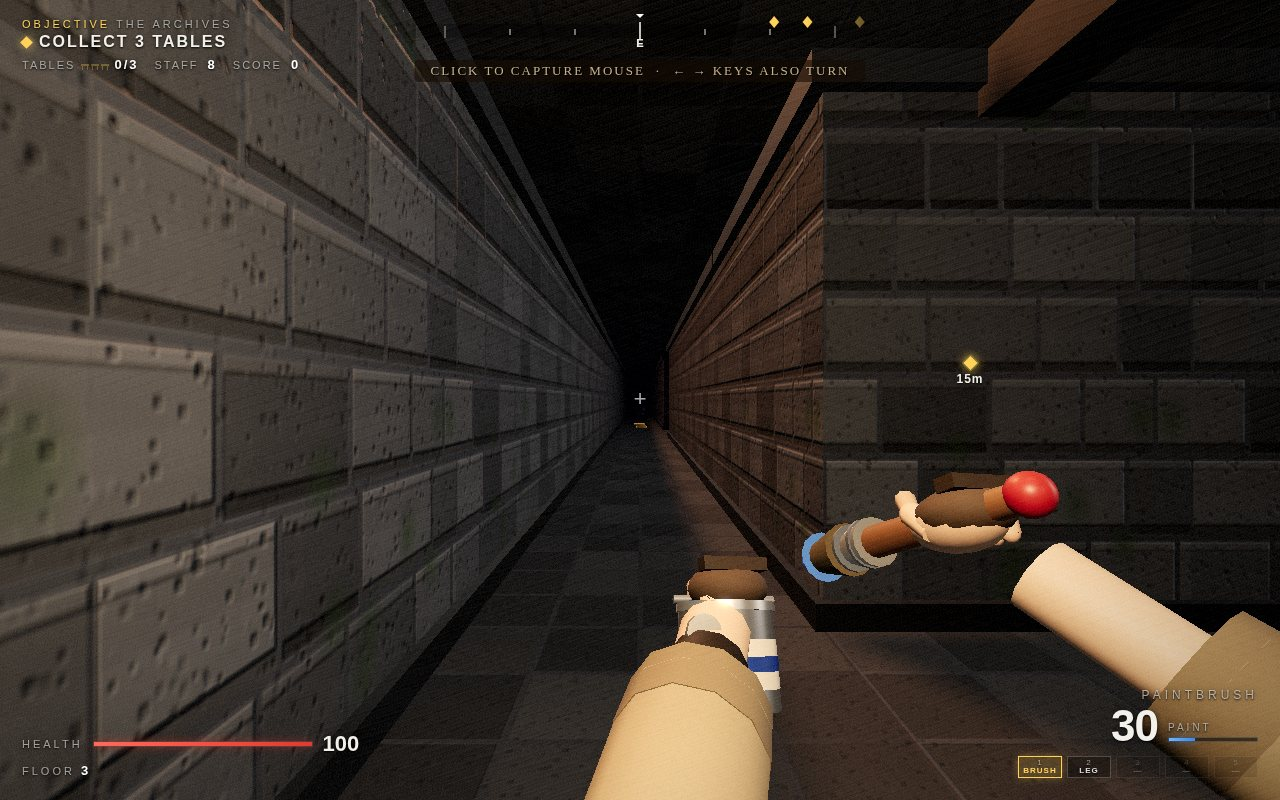
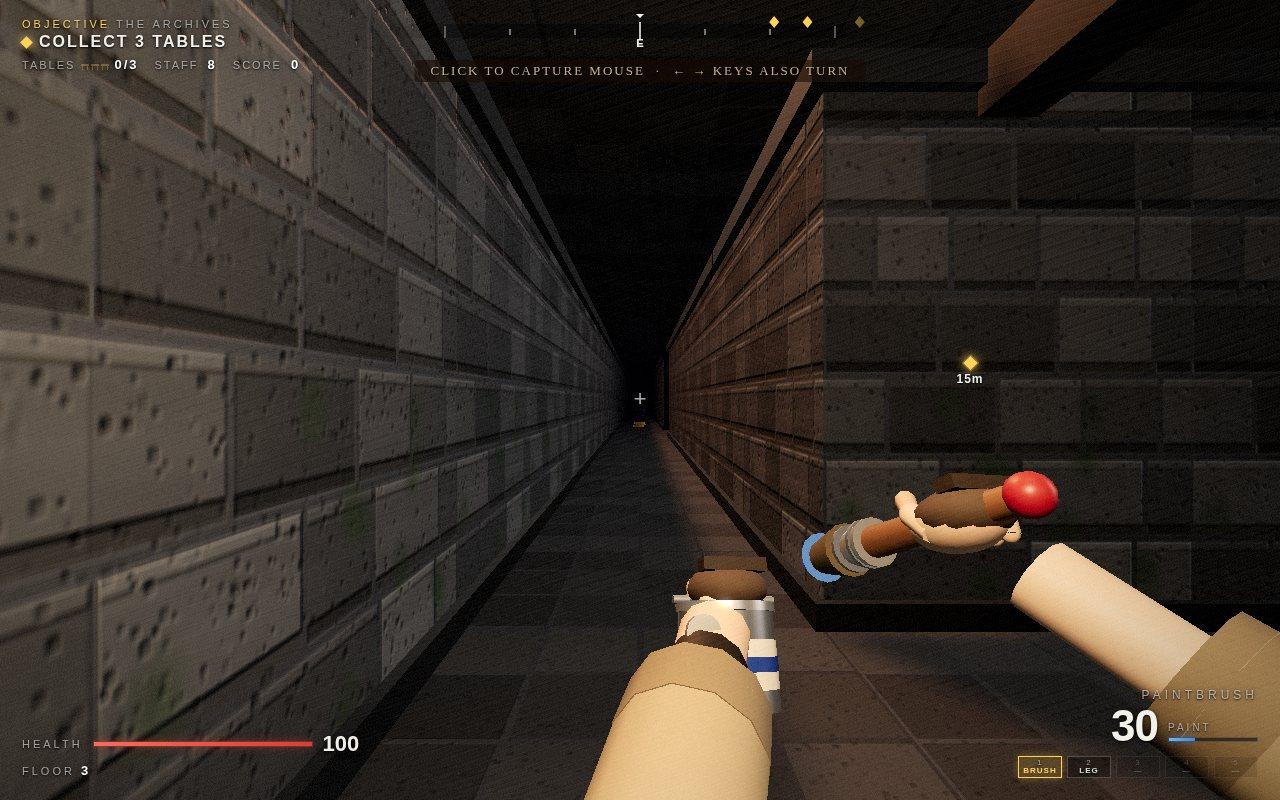
M3.2: full-screen blueprint tactical map on Tab; floor card alpha driven from update

diff --git a/modern/src/hud.js b/modern/src/hud.js
@@ -20,7 +20,8 @@ const $ = (id) => document.getElementById(id);
 
 let hitTimer = null;
 let dirTimer = null;
-let cardTimer = null;
+let cardShownAt = null;
+let cardPending = false;
 
 // dirty-check cache: only touch the DOM when a value actually changes
 const lastVals = {};
@@ -53,7 +54,8 @@ export const hud = {
         $('lock-hint').classList.add('hidden');
         $('damage-dir').classList.remove('on');
         $('obj-marker').classList.add('hidden');
-        $('floor-card').classList.remove('on');
+        $('floor-card').style.opacity = 0; cardShownAt = null; cardPending = false;
+        $('tacmap').classList.add('hidden');
     },
 
     /** four-tick marker; kill = red + pop, held a little longer */
@@ -91,17 +93,27 @@ export const hud = {
         $('lock-hint').classList.toggle('hidden', !show);
     },
 
-    /** floor intro card: FLOOR n / NAME / subtitle, 3.2 s */
+    /** floor intro card: FLOOR n / NAME / subtitle. Alpha is driven from update()
+     *  (fade in 0.3 s, hold, fade out 0.7 s) so it never depends on CSS transitions. */
     floorCard(num, name, subtitle) {
         $('fc-num').textContent = num;
         $('fc-name').textContent = name.toUpperCase();
         $('fc-sub').textContent = subtitle || '';
-        const el = $('floor-card');
-        el.classList.add('on');
-        if (cardTimer) clearTimeout(cardTimer);
-        cardTimer = setTimeout(() => el.classList.remove('on'), 3200);
+        cardShownAt = null; // armed: first update() stamps the game time
+        cardPending = true;
         setText('hud-floor-name', name.toUpperCase());
         poke();
+    },
+
+    updateFloorCard(time) {
+        const el = $('floor-card');
+        if (cardPending) { cardPending = false; cardShownAt = time; }
+        if (cardShownAt === null) return;
+        const t = time - cardShownAt;
+        const a = t < 0.3 ? t / 0.3 : t < 3.4 ? 1 : t < 4.1 ? 1 - (t - 3.4) / 0.7 : 0;
+        const v = a.toFixed(2);
+        if (lastVals._card !== v) { lastVals._card = v; el.style.opacity = v; }
+        if (a <= 0) cardShownAt = null;
     },
 
     update(player, game) {
@@ -186,7 +198,8 @@ export const hud = {
         const lowhp = !(player.health > 25 || player.health <= 0);
         if (lastVals._lowhp !== lowhp) { lastVals._lowhp = lowhp; $('lowhp-overlay').classList.toggle('hidden', !lowhp); }
 
-        // ---- compass + objective marker
+        // ---- floor card, compass, objective marker
+        this.updateFloorCard(time);
         this.drawCompass(player, game);
         this.updateMarker(player, game);
 
@@ -343,8 +356,11 @@ export const hud = {
     drawMinimap(game, player) {
         const c = $('minimap');
         if (c.classList.contains('hidden')) return;
-        const ctx = c.getContext('2d');
         const world = game.world;
+        this.sizeTacmap(world);
+        setText('tac-title', `TACTICAL MAP — FLOOR ${game.levelIndex + 1} · ${game.level.name.toUpperCase()}`);
+        setText('tac-sub', game.level.subtitle || '');
+        const ctx = c.getContext('2d');
         const sx = c.width / world.w, sy = c.height / world.h;
         const key = `${game.levelIndex}:${world.gatesUnlocked}:${c.width}:${world.propsVersion || 0}`;
         if (mmKey !== key) {
@@ -374,25 +390,45 @@ export const hud = {
         }
         ctx.clearRect(0, 0, c.width, c.height);
         ctx.drawImage(mmCanvas, 0, 0);
+        const g = Math.max(3, sx * 0.35); // glyph size scales with the cell
         for (const e of game.pickups) {
             if (!e.active) continue;
-            if (e.kind === 'table') { ctx.fillStyle = '#ffd700'; ctx.fillRect(e.x * sx - 2, e.y * sy - 2, 4, 4); }
+            if (e.kind === 'table') {
+                ctx.save(); ctx.translate(e.x * sx, e.y * sy); ctx.rotate(Math.PI / 4);
+                ctx.fillStyle = '#ffd35a'; ctx.shadowColor = '#ffd35a'; ctx.shadowBlur = 8;
+                ctx.fillRect(-g, -g, g * 2, g * 2); ctx.restore();
+            } else if (e.kind.startsWith('weapon:')) {
+                ctx.fillStyle = '#9ad0ff'; ctx.fillRect(e.x * sx - g * 0.7, e.y * sy - g * 0.7, g * 1.4, g * 1.4);
+            }
         }
         for (const e of game.enemies) {
             if (!e.alive) continue;
             ctx.fillStyle = e.variant === 'boss' ? '#ff3322' : '#ff7788';
-            ctx.fillRect(e.x * sx - 1.5, e.y * sy - 1.5, 3, 3);
+            ctx.beginPath(); ctx.arc(e.x * sx, e.y * sy, e.variant === 'boss' ? g * 1.3 : g * 0.7, 0, 7); ctx.fill();
         }
         ctx.save();
         ctx.translate(player.x * sx, player.y * sy);
         ctx.rotate(player.rot);
-        ctx.fillStyle = '#fff';
-        ctx.beginPath(); ctx.moveTo(5, 0); ctx.lineTo(-3, -3); ctx.lineTo(-3, 3); ctx.closePath(); ctx.fill();
+        ctx.fillStyle = '#fff'; ctx.shadowColor = '#fff'; ctx.shadowBlur = 8;
+        ctx.beginPath(); ctx.moveTo(g * 2.2, 0); ctx.lineTo(-g * 1.4, -g * 1.3); ctx.lineTo(-g * 0.6, 0); ctx.lineTo(-g * 1.4, g * 1.3); ctx.closePath(); ctx.fill();
         ctx.restore();
     },
 
+    /** MODERN M3.2: Tab shows the full-screen tactical map (blueprint kept) */
     toggleMinimap() {
-        $('minimap').classList.toggle('hidden');
+        const wrap = $('tacmap');
+        wrap.classList.toggle('hidden');
+        $('minimap').classList.toggle('hidden', wrap.classList.contains('hidden'));
+        mmKey = ''; // re-rasterise the static layer at the new size
         poke();
+    },
+
+    /** size the map canvas to the floor's aspect inside the viewport */
+    sizeTacmap(world) {
+        const c = $('minimap');
+        const maxW = Math.min(window.innerWidth * 0.66, 1100), maxH = Math.min(window.innerHeight * 0.62, 700);
+        const k = Math.min(maxW / world.w, maxH / world.h);
+        const w = Math.round(world.w * k), h = Math.round(world.h * k);
+        if (c.width !== w || c.height !== h) { c.width = w; c.height = h; mmKey = ''; }
     },
 };

diff --git a/modern/index.html b/modern/index.html
@@ -1214,18 +1214,7 @@
         }
 
         /* minimap — blueprint in a wooden frame */
-        #minimap {
-            position: absolute;
-            top: 56px;
-            left: 16px;
-            border: 4px solid #5a3c1c;
-            outline: 1px solid #c9a227;
-            border-radius: 3px;
-            background: rgba(8, 20, 38, 0.85);
-            z-index: 150;
-            image-rendering: pixelated;
-            box-shadow: 0 5px 14px rgba(0, 0, 0, 0.55);
-        }
+        /* #minimap classic corner styling removed (MODERN M3.2 tactical map) */
 
         /* boss health — gilded frame */
         #boss-bar-wrap {
@@ -1374,8 +1363,7 @@
         #compass { display: block; width: 520px; height: 34px; margin: 0 auto;
             -webkit-mask: linear-gradient(90deg, transparent, #000 18%, #000 82%, transparent); mask: linear-gradient(90deg, transparent, #000 18%, #000 82%, transparent); }
         /* floor intro card (replaces the classic floor toast) */
-        #floor-card { position: absolute; top: 110px; left: 50%; transform: translateX(-50%); width: 720px; text-align: center; opacity: 0; transition: opacity .6s; }
-        #floor-card.on { opacity: 1; transition: none; }
+        #floor-card { position: absolute; top: 110px; left: 50%; transform: translateX(-50%); width: 720px; text-align: center; opacity: 0; } /* alpha driven by hud.js */
         #floor-card .fc-floor { font-size: 15px; letter-spacing: 6px; color: var(--accent); }
         #floor-card .fc-name { font-size: 46px; letter-spacing: 8px; font-weight: 700; line-height: 1.05; margin-top: 4px; }
         #floor-card .fc-sub { font-size: 15px; letter-spacing: 2px; color: var(--dim); margin-top: 8px; font-style: italic; }
@@ -1442,6 +1430,25 @@
         .pause-portrait { display: flex; flex-direction: column; align-items: center; gap: 4px; margin-bottom: 8px; }
         .pause-portrait canvas { width: 64px; height: 64px; image-rendering: pixelated; border: 2px solid #c9a227; background: #2e2e33; }
         .pause-portrait .portrait-plate { font-size: 10px; letter-spacing: 3px; color: #c9a227; }
+
+        /* ======================= TACTICAL MAP (M3.2) ======================= */
+        #tacmap { position: absolute; inset: 0; z-index: 150; pointer-events: none; display: flex; flex-direction: column; align-items: center; justify-content: center; gap: 12px;
+            background: radial-gradient(ellipse at center, rgba(6, 14, 28, .78), rgba(4, 8, 16, .92));
+            font-family: "Roboto Condensed", "Arial Narrow", "Helvetica Neue", Arial, sans-serif; color: #dbe7f5; letter-spacing: 3px; }
+        #tacmap.hidden { display: none; }
+        #tacmap .tac-head { display: flex; flex-direction: column; align-items: center; gap: 4px; }
+        #tacmap #tac-title { font-size: 16px; font-weight: 700; color: #ffd35a; }
+        #tacmap #tac-sub { font-size: 12px; color: rgba(219,231,245,.6); font-style: italic; letter-spacing: 1px; }
+        #tacmap #minimap { display: block; border: 1px solid rgba(160, 200, 240, .45); box-shadow: 0 0 0 6px rgba(10, 26, 48, .9), 0 0 40px rgba(0,0,0,.7); image-rendering: auto; }
+        #tacmap .tac-legend { display: flex; gap: 22px; font-size: 11px; color: rgba(219,231,245,.75); align-items: center; }
+        #tacmap .tac-legend i { display: inline-block; width: 9px; height: 9px; margin-right: 6px; vertical-align: -1px; }
+        .lg-you { background: #fff; clip-path: polygon(100% 50%, 0 0, 30% 50%, 0 100%); }
+        .lg-table { background: #ffd35a; transform: rotate(45deg) scale(.8); }
+        .lg-elev { background: #3ae07a; }
+        .lg-gate { background: #cc4433; }
+        .lg-staff { background: #ff7788; border-radius: 50%; }
+        .lg-door { background: #c9a227; }
+        .tac-hint { margin-left: 18px; color: #ffd35a; }
     </style>
 </head>
 
@@ -1459,7 +1466,14 @@
         <div id="pickup-overlay"></div>
         <div id="toast"></div>
         <div id="objective" class="hidden"></div>
-        <canvas id="minimap" class="hidden" width="224" height="168"></canvas>
+        <div id="tacmap" class="hidden">
+            <div class="tac-head"><span id="tac-title">TACTICAL MAP</span><span id="tac-sub"></span></div>
+            <canvas id="minimap" class="hidden" width="224" height="168"></canvas>
+            <div class="tac-legend">
+                <span><i class="lg-you"></i>YOU</span><span><i class="lg-table"></i>TABLE</span><span><i class="lg-elev"></i>ELEVATOR</span><span><i class="lg-gate"></i>LOCKED GATE</span><span><i class="lg-staff"></i>STAFF</span><span><i class="lg-door"></i>DOOR</span>
+                <span class="tac-hint">TAB · CLOSE</span>
+            </div>
+        </div>
         <div id="mute-indicator" class="hidden">🔇 MUTED</div>
 
         <div id="boss-bar-wrap" class="hidden">

diff --git a/modern/PROGRESS.md b/modern/PROGRESS.md
@@ -250,3 +250,10 @@ Preview rebuilt at `dist/modern/index.html`.
 **Preservation:** every classic readout survives — floor, score, health, paint, tables (count + icons), staff, weapon rack, boss bar, objective text, toasts (as feed), minimap, mute indicator, lock hint, Sandy's portrait (pause). All HUD element IDs the game code writes to are kept.
 **Open issues:** the idle fade could not be captured (it counts game time, which advances ~0.05 s per software frame). Feed items and the card use CSS opacity, which the headless renderer paints unreliably; fine on hardware. `#hud-tables-icons` sits inline in the chip — small; M3.2/M3.6 can revisit sizing. The lock hint keeps its classic styling for now.
 **Next:** M3.2 compass strip + full-screen tactical map on Tab.
+
+### M3.2 — Tactical map on Tab   (2026-09-03)
+**Changed:** the compass strip shipped in M3.1; Tab now opens a **full-screen tactical map** (`#tacmap`): a dimmed vignette over the game, a title (TACTICAL MAP — FLOOR n · NAME) and the floor's subtitle, the blueprint canvas sized to the floor's aspect (up to 66 % × 62 % of the viewport), and a legend (you / table / elevator / locked gate / staff / door, TAB · CLOSE). The blueprint look is the classic one (navy paper, faint grid, drafted walls, penciled furniture, gold doors, red/green gate, green elevator) with glyphs that scale with the cell: gold diamonds for tables, cyan squares for weapon pickups, pink dots for staff (red for the boss), a white arrow for Sandy. Static layer is re-rasterised on toggle. The corner minimap CSS is retired. Also: the floor intro card's alpha is now driven from the HUD update (fade 0.3 s in, 3.1 s hold, 0.7 s out) instead of a CSS transition.
+**Evidence:** `modern/docs/M3.2/tacmap-showroom.jpg` (Showroom: display pods with tables, flat-pack aisles, checkout, gate + elevator), `modern/docs/M3.1/floor-card.jpg` (Archives card). Smoke green (Tab toggles on/off, state unchanged); validator, frozen guard OK; build 14.4 MB.
+**Preservation:** Tab still toggles the map; the same information the classic minimap showed (walls, furniture, doors, gates, elevator, tables, staff, player) is shown, now readable.
+**Open issues:** the map is a snapshot of static walls plus live entities, no fog-of-war (classic had none either). The game keeps running while the map is open (classic behaviour).
+**Next:** M3.3 main menu over a live 3D scene + options.
